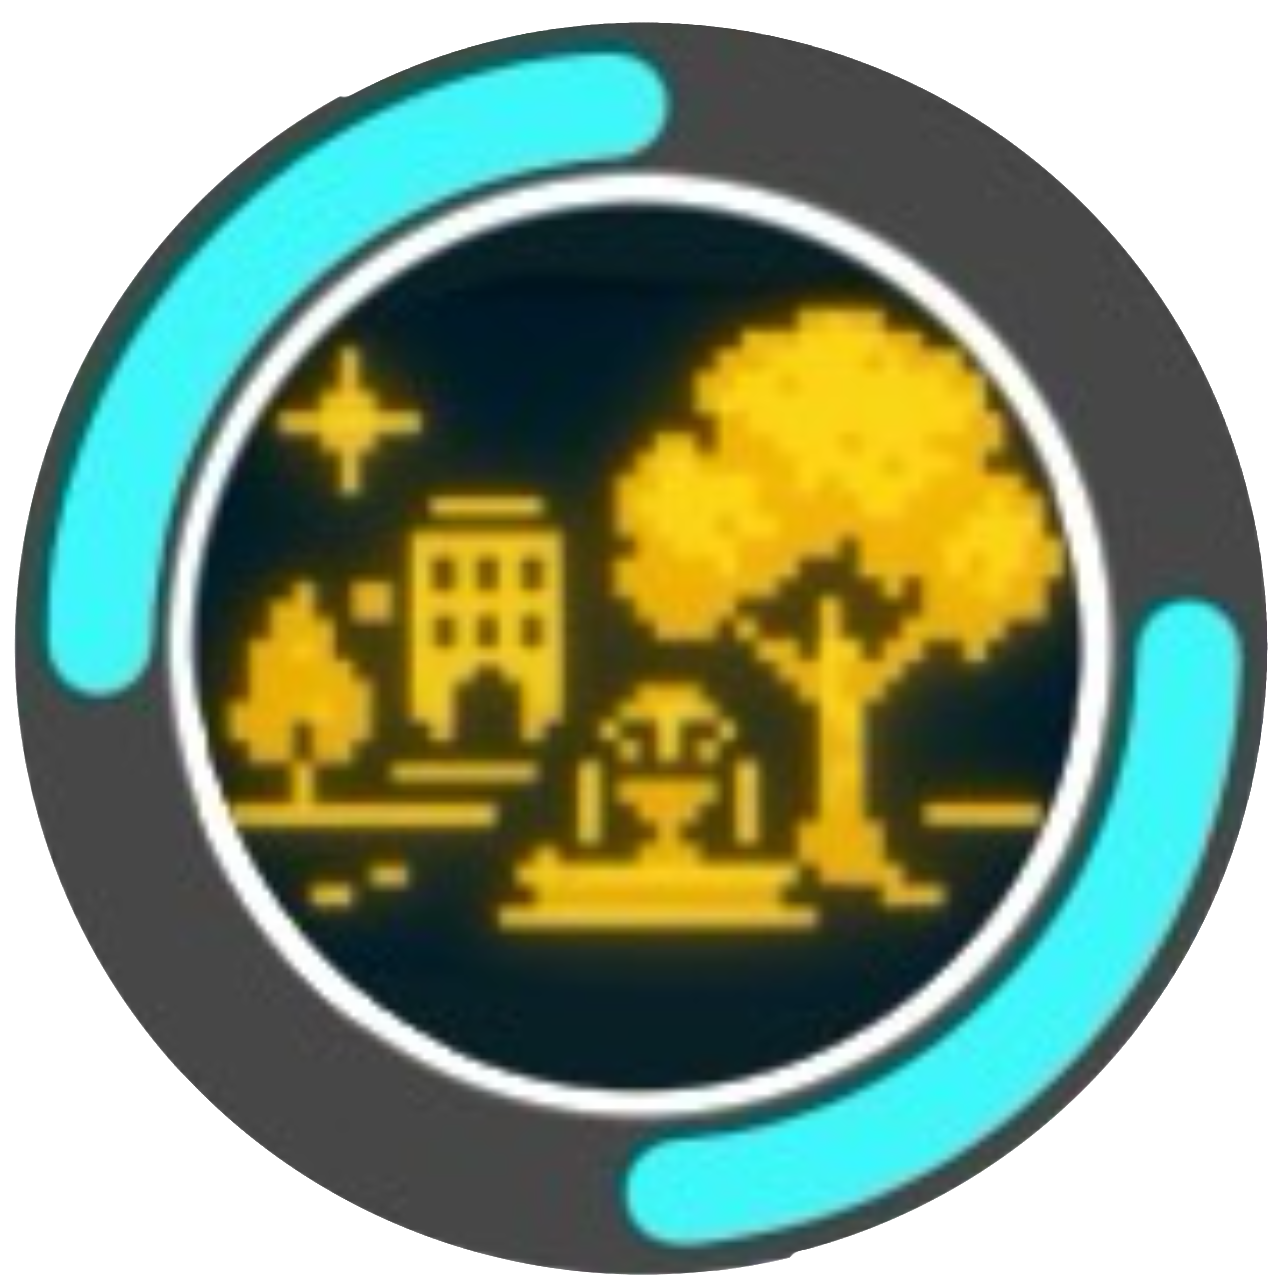
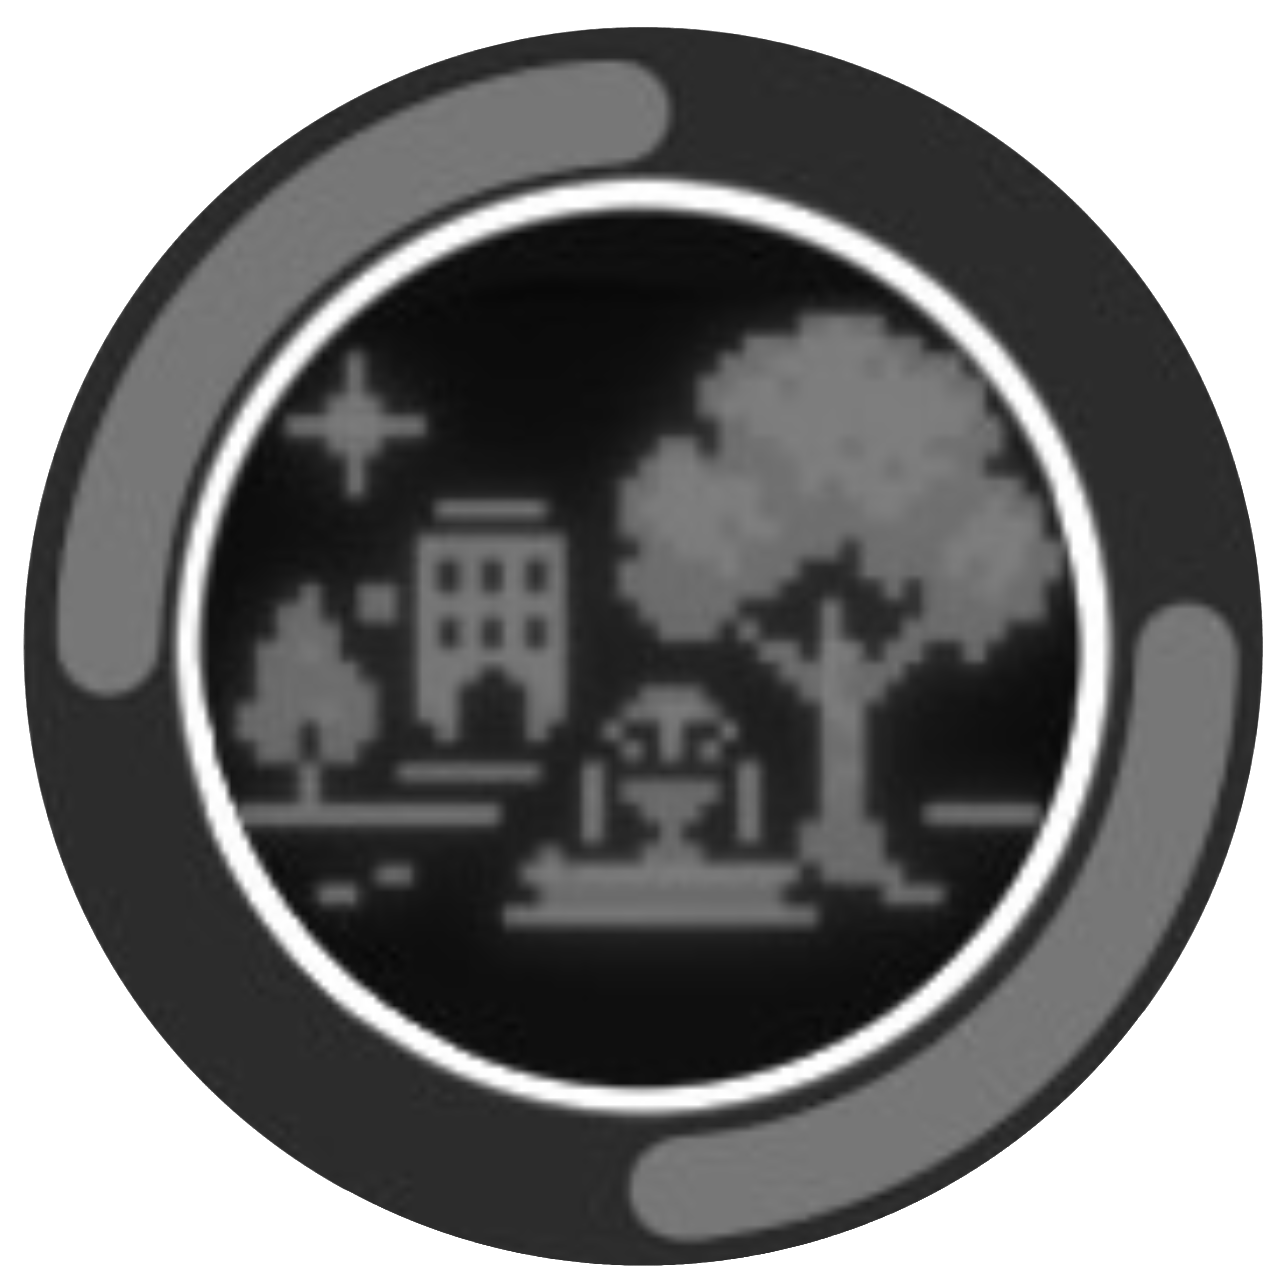
Fix: Update parkIcon assets for active and inactive states with proper visuals

diff --git a/lib/common_bottom_navigation.dart b/lib/common_bottom_navigation.dart
@@ -8,7 +8,7 @@ import 'package:flutter_riverpod/flutter_riverpod.dart';
 import 'providers/current_page_provider.dart';
 
 class CommonBottomNavigation extends ConsumerWidget {
-  final String iconsParentPath = 'buttons/common_navigation/';
+  final String iconsParentPath = 'assets/buttons/common_navigation/';
   final String inactiveParkIcon = 'park_inactive.png';
   final String activeParkIcon = 'park_active.png';
   final String inactiveTimetableIcon = 'timetable_inactive.png';
